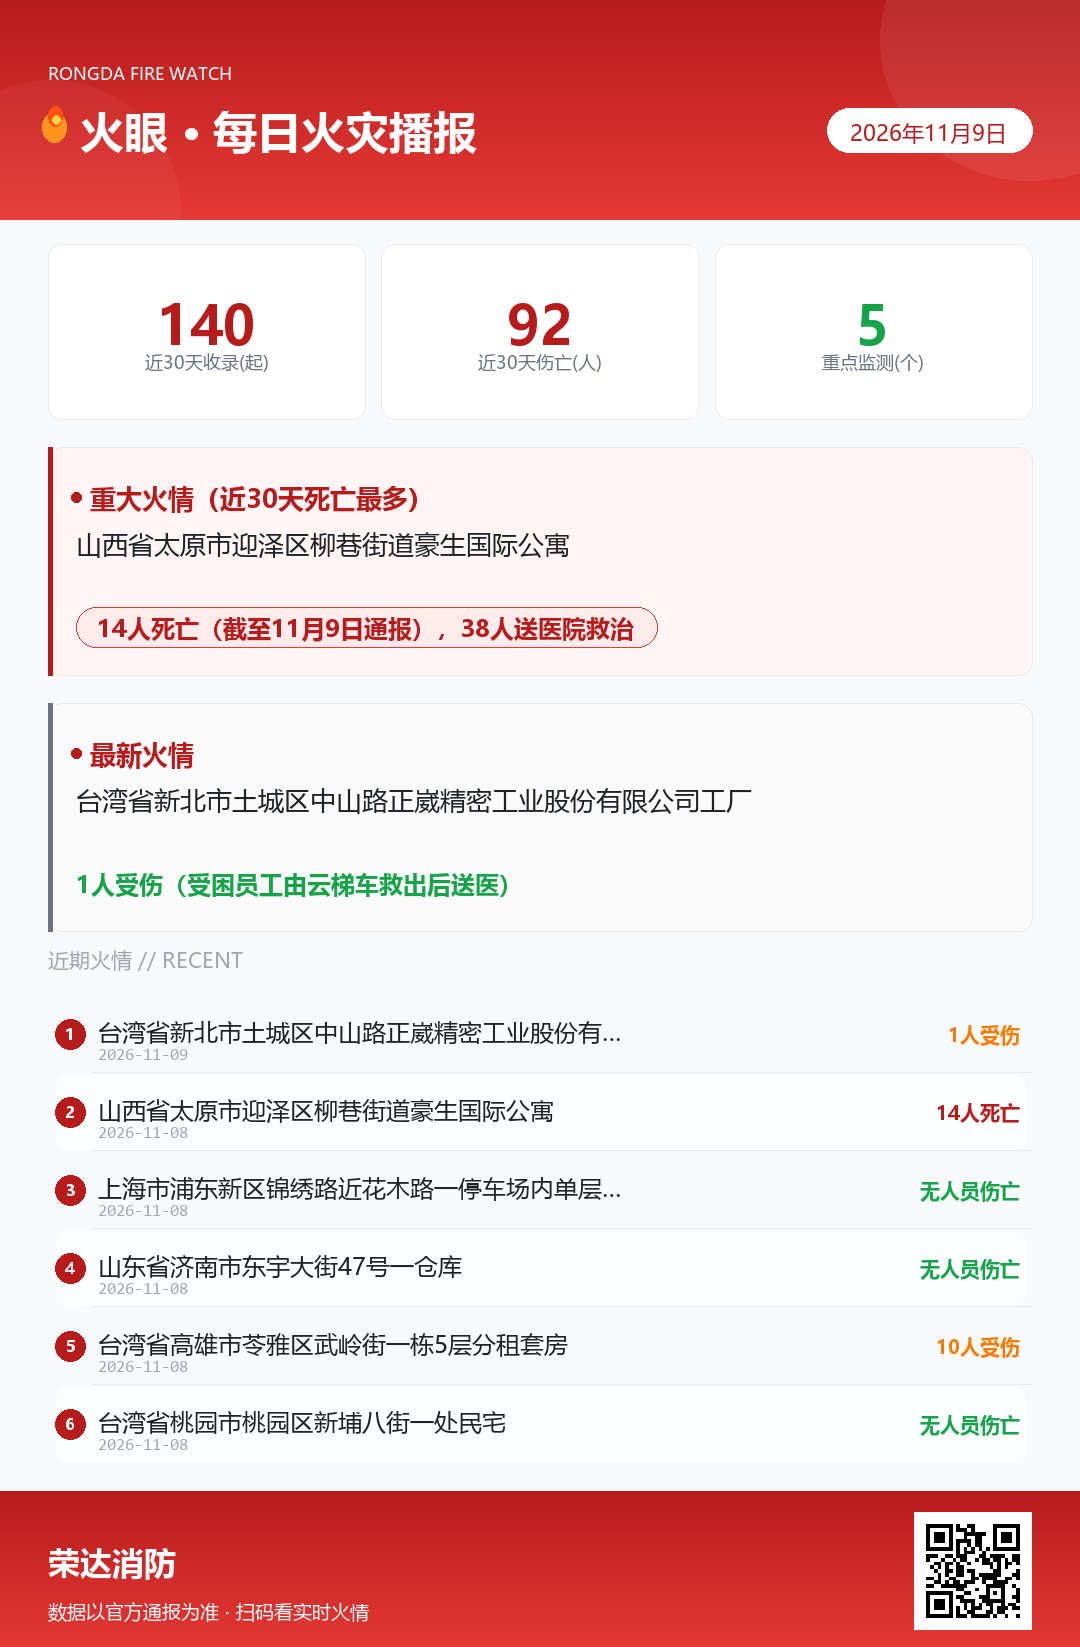
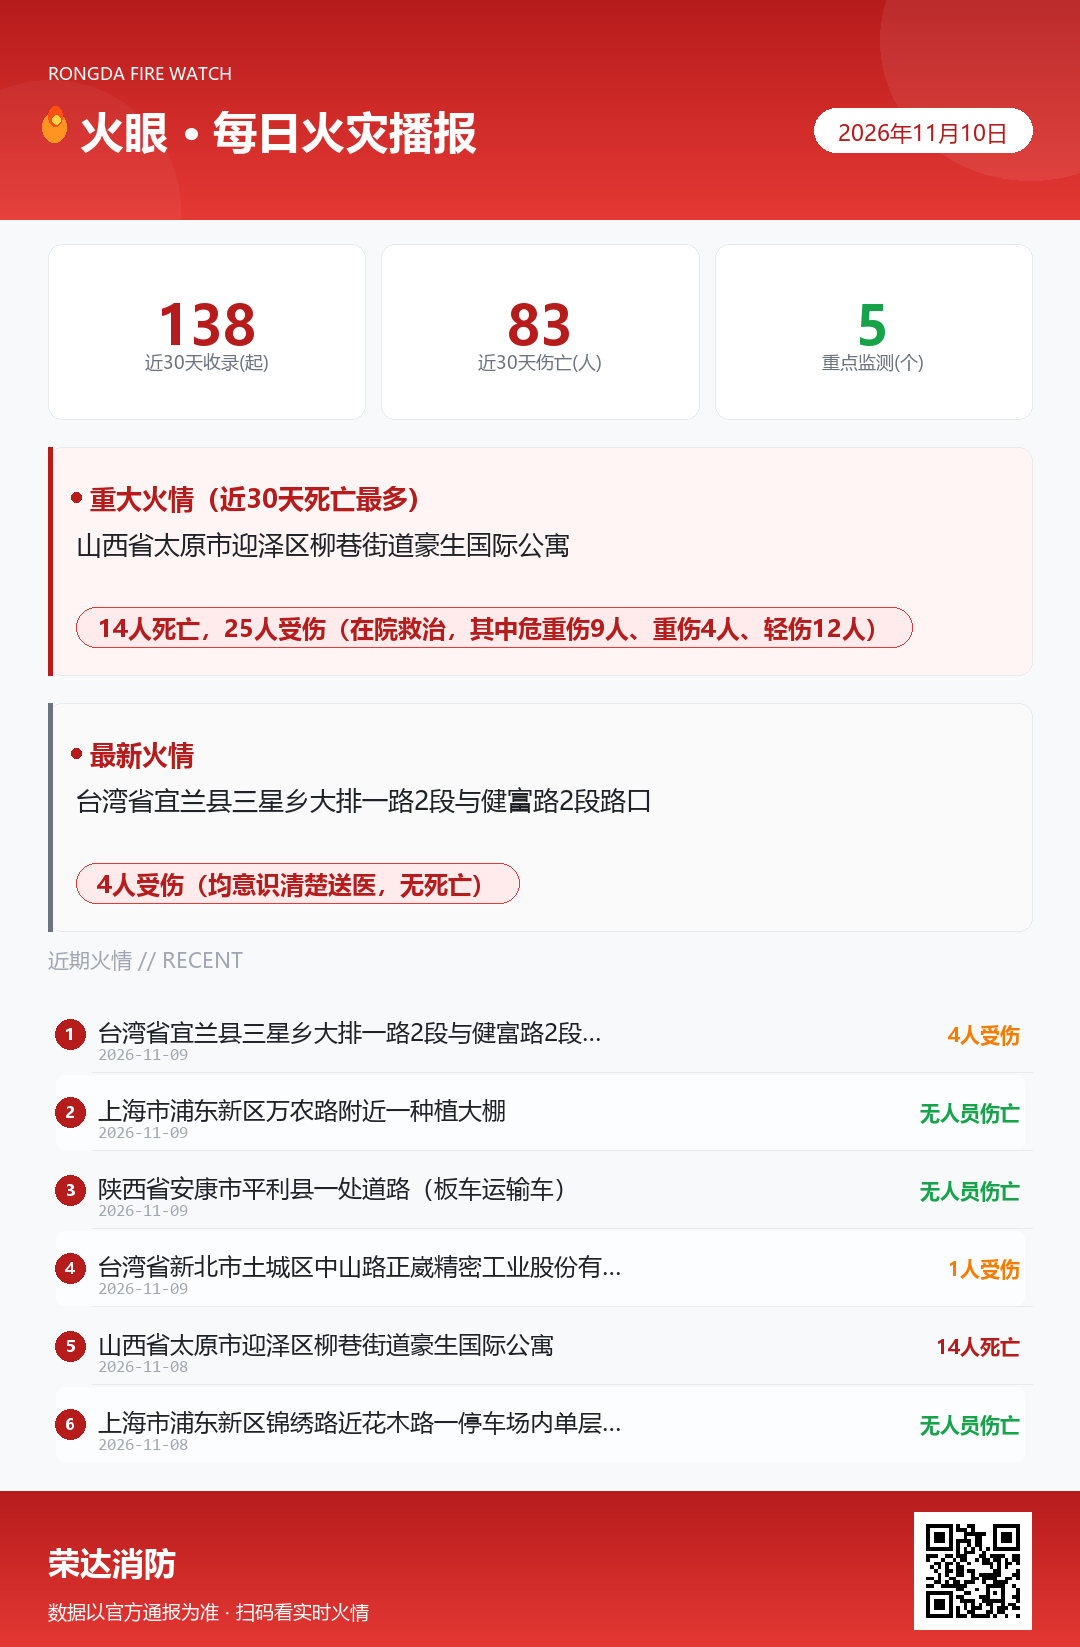
fire-daily-brief 2026-11-10 09:11 roll

diff --git a/index.html b/index.html
@@ -433,10 +433,9 @@
 <body data-page-node-id="ICXkWpuir7NPQq2WkGSUm2">
 
 <!-- ============ DATA（每日自动更新：由自动化脚本重写此对象） ============ -->
-<script id="brief-data" type="application/json">
-{
-  "date": "2026年11月9日",
-  "compileTime": "2026-11-09 11:45",
+<script id="brief-data" type="application/json">{
+  "date": "2026年11月10日",
+  "compileTime": "2026-11-10 09:10",
   "source": "AI 联网检索 · 各地消防救援机构官方通报及权威媒体转载",
   "range": "滚动更新 · 近 30 天",
   "stats": {
@@ -451,7 +450,7 @@
     },
     {
       "name": "上海市",
-      "status": "有官方通报（7·28/7·31 多起居民楼起火、8·4 闵行中春路单位建筑起火、8·7 虹口新市南路小区非机动车起火、8·10 浦东万安街路边车辆起火、8·17 G2京沪高速面包车起火、8·19 青浦盈浦街道居民顶楼起火、8·19 G1503绕城高速集卡追尾起火、8·28 浦东张江松涛路单位实验室起火、8·30 松江车墩镇松南城善德苑小区居民家中起火（无伤亡、9·1 凌晨浦东新区一社区居民楼6楼火情（2人送医）、9·1 杨浦新江湾城时代花园小区居民楼起火（无伤亡；9·1 松江区明中苑小区室外非机动车停车区域多辆非机动车烧毁（无伤亡、9·7 杨浦区殷行路近军工路小区垃圾房起火（无伤亡）、9·18 松江区泗泾镇方泗公路一辆新能源车追尾后起火燃烧（无人员伤亡）、9·28 浦东新区高青路一小区室外非机动车停车棚起火，多辆非机动车烧毁（无伤亡）、9·29 静安区天通庵路一工地内仓库起火（无伤亡）、9·29 崧泽高架平板牵引车起火（无伤亡）、10·9 宝山区上海大学南区学生公寓一女生宿舍起火（无人员伤亡）、10·9 青浦区城中西路一居民楼顶楼民宅起火（无人员伤亡报告））、10·12 杨浦区翔殷路791弄兰花新村小区一居民家中起火（2人送医，情况稳定、10·14 徐汇区天平街道一老式居民楼凌晨火情（充电宝故障热失控，无伤亡）、10·15 嘉定区沪宜公路近双丁路一处室外垃圾堆起火（燃烧垃圾渔网等杂物，无伤亡）、10·16 嘉定区曹安公路近联群路一区域起火（夜间露天区域起火，无伤亡）、10·17 杨浦区控江六村小区底楼一居民家中起火（无伤亡，一辆电动自行车烧毁）、10·17 S1迎宾高速近启航路出口匝道一轿车起火（无伤亡）、10·18 杨浦区殷行路430弄小区居民家中起火（无伤亡，原因调查中）、10·22 普陀区杏山路近梅岭南路一沿街面馆起火（无伤亡，起因调查中）、10·23 宝山区岭南路1288弄岭南雅苑一顶楼复式居民家起火（火势较大，无人员伤亡，原因调查中）、10·24 松江区新育路750弄雅鹿新苑二期小区一居民家起火（底楼住户，无人员伤亡，原因调查中、10·21 奉贤区一小区停车场居民擅自用转接头接新能源汽车充电桩给电动自行车充电引发火灾（充电桩与电动自行车烧损烧毁，无人员伤亡）、10·25 静安区平型关路2199弄小区非机动车停放区域起火（6辆电动自行车烧毁，无人员伤亡））、10·28 北横通道东向西转中环匝道口一面包车车头起火（晚高峰，临时封一根车道、后方拥堵约4公里，无伤亡）、10·28 G1503 绕城高速内圈近重固立交处一装载纸板小货车行驶中起火（车内2人及时下车无伤，18时许处置完毕，无伤亡）、10·31 嘉定区温宿路城中路桃园小区一底楼居民家起火（外立面2楼至顶楼熏黑、多户玻璃碎裂与空调外机烧毁，无人员伤亡，原因调查中）、11·01 闵行区金都路都会路路口一轿车撞绿化带侧翻后车头起火（车内人员及时撤出，无伤亡，原因调查中）、11·02 浦东新区定水路50弄西镇小区某号3楼一户居民家起火（窗玻璃烧碎坠地，3楼至顶楼外立面与空调外机熏黑，无人员伤亡，原因调查中）、11·02 静安区上海大学延长路校区一处实验室在抢险救援过程中发生爆炸（涉事学生轻微伤、无人死亡，原因调查中）、11·03 嘉定区海波路一公司临时搭建板房起火（燃烧物为板房内堆放杂物和垃圾，无人员伤亡，原因调查中）、11·06 虹口区四达路58弄小区一住宅起火（疑空调外机起火，明火很快被扑灭，无人员伤亡，原因正在调查中、11·08 浦东新区锦绣路近花木路一停车场内单层房屋起火（屋内有明火蹿出、烟雾随高湿空气弥散至周边道路，社区消防站先期铺设水带扑救，无人员伤亡，原因调查中）"
+      "status": "有官方通报（7·28/7·31 多起居民楼起火、8·4 闵行中春路单位建筑起火、8·7 虹口新市南路小区非机动车起火、8·10 浦东万安街路边车辆起火、8·17 G2京沪高速面包车起火、8·19 青浦盈浦街道居民顶楼起火、8·19 G1503绕城高速集卡追尾起火、8·28 浦东张江松涛路单位实验室起火、8·30 松江车墩镇松南城善德苑小区居民家中起火（无伤亡、9·1 凌晨浦东新区一社区居民楼6楼火情（2人送医）、9·1 杨浦新江湾城时代花园小区居民楼起火（无伤亡；9·1 松江区明中苑小区室外非机动车停车区域多辆非机动车烧毁（无伤亡、9·7 杨浦区殷行路近军工路小区垃圾房起火（无伤亡）、9·18 松江区泗泾镇方泗公路一辆新能源车追尾后起火燃烧（无人员伤亡）、9·28 浦东新区高青路一小区室外非机动车停车棚起火，多辆非机动车烧毁（无伤亡）、9·29 静安区天通庵路一工地内仓库起火（无伤亡）、9·29 崧泽高架平板牵引车起火（无伤亡）、10·9 宝山区上海大学南区学生公寓一女生宿舍起火（无人员伤亡）、10·9 青浦区城中西路一居民楼顶楼民宅起火（无人员伤亡报告））、10·12 杨浦区翔殷路791弄兰花新村小区一居民家中起火（2人送医，情况稳定、10·14 徐汇区天平街道一老式居民楼凌晨火情（充电宝故障热失控，无伤亡）、10·15 嘉定区沪宜公路近双丁路一处室外垃圾堆起火（燃烧垃圾渔网等杂物，无伤亡）、10·16 嘉定区曹安公路近联群路一区域起火（夜间露天区域起火，无伤亡）、10·17 杨浦区控江六村小区底楼一居民家中起火（无伤亡，一辆电动自行车烧毁）、10·17 S1迎宾高速近启航路出口匝道一轿车起火（无伤亡）、10·18 杨浦区殷行路430弄小区居民家中起火（无伤亡，原因调查中）、10·22 普陀区杏山路近梅岭南路一沿街面馆起火（无伤亡，起因调查中）、10·23 宝山区岭南路1288弄岭南雅苑一顶楼复式居民家起火（火势较大，无人员伤亡，原因调查中）、10·24 松江区新育路750弄雅鹿新苑二期小区一居民家起火（底楼住户，无人员伤亡，原因调查中、10·21 奉贤区一小区停车场居民擅自用转接头接新能源汽车充电桩给电动自行车充电引发火灾（充电桩与电动自行车烧损烧毁，无人员伤亡）、10·25 静安区平型关路2199弄小区非机动车停放区域起火（6辆电动自行车烧毁，无人员伤亡））、10·28 北横通道东向西转中环匝道口一面包车车头起火（晚高峰，临时封一根车道、后方拥堵约4公里，无伤亡）、10·28 G1503 绕城高速内圈近重固立交处一装载纸板小货车行驶中起火（车内2人及时下车无伤，18时许处置完毕，无伤亡）、10·31 嘉定区温宿路城中路桃园小区一底楼居民家起火（外立面2楼至顶楼熏黑、多户玻璃碎裂与空调外机烧毁，无人员伤亡，原因调查中）、11·01 闵行区金都路都会路路口一轿车撞绿化带侧翻后车头起火（车内人员及时撤出，无伤亡，原因调查中）、11·02 浦东新区定水路50弄西镇小区某号3楼一户居民家起火（窗玻璃烧碎坠地，3楼至顶楼外立面与空调外机熏黑，无人员伤亡，原因调查中）、11·02 静安区上海大学延长路校区一处实验室在抢险救援过程中发生爆炸（涉事学生轻微伤、无人死亡，原因调查中）、11·03 嘉定区海波路一公司临时搭建板房起火（燃烧物为板房内堆放杂物和垃圾，无人员伤亡，原因调查中）、11·06 虹口区四达路58弄小区一住宅起火（疑空调外机起火，明火很快被扑灭，无人员伤亡，原因正在调查中、11·08 浦东新区锦绣路近花木路一停车场内单层房屋起火（屋内有明火蹿出、烟雾随高湿空气弥散至周边道路，社区消防站先期铺设水带扑救，无人员伤亡，原因调查中）、11·09 浦东新区万农路附近一种植大棚起火（上午11时许，多辆消防车到场铺设水带出水扑救、明火很快被扑灭，无人员伤亡，原因调查中）"
     },
     {
       "name": "广州市",
@@ -464,12 +463,12 @@
   ],
   "case": {
     "date": "2026-11-09",
-    "location": "台湾省新北市土城区中山路正崴精密工业股份有限公司工厂",
-    "category": "工厂/车间",
-    "summary": "11月9日上午8时许，台湾省新北市土城区中山路正崴精密工业股份有限公司工厂发生火警。现场为7层建筑，火烟由5楼冒出，警消初步掌握厂内1人受困、在安全区域待援，9时26分由云梯车救出受困员工送医。新北市政府消防局共计调派47车、102人前往灌救，10时许控制火势。因现场存放锂电池燃烧、浓烟直窜，增加灌救困难，警消一度评估有延烧之虞并呼吁邻近区域民众关闭门窗、外出戴口罩，起火原因待火势熄灭后调查厘清。",
-    "casualty": "1人受伤（受困员工由云梯车救出后送医）",
-    "cause": "起火原因待火势熄灭后调查厘清",
-    "src": "中央社（2026-11-09，据新北市政府消防局）"
+    "location": "台湾省宜兰县三星乡大排一路2段与健富路2段路口",
+    "category": "交通枢纽",
+    "summary": "11月9日中午12时许，一辆载运瓦斯桶的小货车行经宜兰县三星乡大排一路2段与健富路2段路口时，与一辆自小客车发生碰撞后起火，货车车头火势猛烈、黑烟直窜。宜兰县政府消防局12时48分获报派员到场，布设水线射水抢救，13时45分扑灭。事故造成小货车驾驶脸部擦伤送罗东圣母医院、自小客车驾驶及2名乘客头部等处擦伤送罗东博爱医院，共4人受伤、均意识清楚；两名驾驶经检测均无酒精反应，肇事原因待警方进一步调查厘清。",
+    "casualty": "4人受伤（均意识清楚送医，无死亡）",
+    "cause": "小货车与自小客车路口碰撞后起火，肇事原因待警方调查厘清",
+    "src": "中央社（2026-11-09，据宜兰县政府消防局及警方初步调查）"
   },
   "tips": [
     "住宅类火情近30天49起居首、占超三成，电气与堆物是主因：上海11·06空调外机起火熏黑整栋、香港11·07香薰点燃杂物致1死、多起老旧插头“九年未拔”与排插长期通电。立冬后取暖用电负荷上升，老旧插排和长通插头赶紧换，空调外机周边清走杂物与积尘，人离即断。",
@@ -490,6 +489,33 @@
   "history": [
     {
       "date": "2026-11-09",
+      "location": "台湾省宜兰县三星乡大排一路2段与健富路2段路口",
+      "category": "交通枢纽",
+      "summary": "11月9日中午12时许，一辆载运瓦斯桶的小货车行经宜兰县三星乡大排一路2段与健富路2段路口时，与一辆自小客车发生碰撞后起火，货车车头火势猛烈、黑烟直窜。宜兰县政府消防局12时48分获报派员到场，布设水线射水抢救，13时45分扑灭。事故造成小货车驾驶脸部擦伤送罗东圣母医院、自小客车驾驶及2名乘客头部等处擦伤送罗东博爱医院，共4人受伤、均意识清楚；两名驾驶经检测均无酒精反应，肇事原因待警方进一步调查厘清。",
+      "casualty": "4人受伤（均意识清楚送医，无死亡）",
+      "cause": "小货车与自小客车路口碰撞后起火，肇事原因待警方调查厘清",
+      "src": "中央社（2026-11-09，据宜兰县政府消防局及警方初步调查）"
+    },
+    {
+      "date": "2026-11-09",
+      "location": "上海市浦东新区万农路附近一种植大棚",
+      "category": "其他",
+      "summary": "11月9日上午11时许，上海市浦东新区万农路附近一处种植大棚发生火灾，起火大棚处蹿出明火、火势蔓延并持续冒出黑烟，烟雾向周边区域飘散。现场人员拨打报警电话后，消防部门派出多辆消防车到场，队员第一时间铺设水带出水灭火，明火很快被扑灭。火灾未造成人员伤亡，具体起火原因正在进一步调查中。",
+      "casualty": "无人员伤亡",
+      "cause": "具体起火原因正在进一步调查中",
+      "src": "新民晚报（2026-11-09，记者徐驰）／上观新闻"
+    },
+    {
+      "date": "2026-11-09",
+      "location": "陕西省安康市平利县一处道路（板车运输车）",
+      "category": "交通枢纽",
+      "summary": "11月9日，陕西省安康市平利县一辆板车运输车行驶途中突发火情，火势蔓延至所载多台车辆。当地消防救援力量迅速到场扑救，当日13时许道路恢复交通。本次事故没有人员伤亡，起火原因正在调查中。",
+      "casualty": "无人员伤亡",
+      "cause": "起火原因正在调查中",
+      "src": "新京报·我们视频（2026-11-09）／南昌晚报转载"
+    },
+    {
+      "date": "2026-11-09",
       "location": "台湾省新北市土城区中山路正崴精密工业股份有限公司工厂",
       "category": "工厂/车间",
       "summary": "11月9日上午8时许，台湾省新北市土城区中山路正崴精密工业股份有限公司工厂发生火警。现场为7层建筑，火烟由5楼冒出，警消初步掌握厂内1人受困、在安全区域待援，9时26分由云梯车救出受困员工送医。新北市政府消防局共计调派47车、102人前往灌救，10时许控制火势。因现场存放锂电池燃烧、浓烟直窜，增加灌救困难，警消一度评估有延烧之虞并呼吁邻近区域民众关闭门窗、外出戴口罩，起火原因待火势熄灭后调查厘清。",
@@ -501,10 +527,10 @@
       "date": "2026-11-08",
       "location": "山西省太原市迎泽区柳巷街道豪生国际公寓",
       "category": "其他",
-      "summary": "11月8日16时59分，山西省太原市迎泽区柳巷街道豪生国际公寓发生火灾。起火建筑2007年建成，地处柳巷商圈，低楼层为多家培训机构、较高楼层多为酒店客房，属多业态混合高层建筑，火势沿烟道向上蔓延，起火点位于楼体靠近顶部位置。19时明火扑灭，20时30分搜救工作结束；迎泽区通报送医院救治38人，其中死亡5人。11月9日记者从山西省相关部门获悉，火灾死亡人数已升至14人。救援期间消防救援人员架设云梯从窗口救出多名被困人员，有被困者翻窗至8层露天平台避险约40分钟后获救。伤员救治与善后处置正在进行，起火原因正在调查。",
-      "casualty": "14人死亡（截至11月9日通报），38人送医院救治",
-      "cause": "起火原因正在调查中",
-      "src": "新华社（2026-11-09）／央视新闻、迎泽区「迎泽发布」情况通报（2026-11-08）"
+      "summary": "11月8日16时59分，山西省太原市迎泽区柳巷街道豪生国际公寓发生火灾。起火建筑2007年建成，地处柳巷商圈，低楼层为多家培训机构、较高楼层多为酒店客房，属多业态混合高层建筑，火势沿烟道向上蔓延，起火点位于楼体靠近顶部位置。19时明火扑灭，20时30分搜救工作结束；11月9日下午太原市政府召开新闻发布会通报：火灾已造成14人遇难，25人在院全力救治（危重伤9人、重伤4人、轻伤12人），共疏散营救被困群众60人。救援期间消防救援人员架设云梯从窗口救出多名被困人员，有被困者翻窗至8层露天平台避险约40分钟后获救。伤员救治与善后处置正在进行，起火原因正在调查。",
+      "casualty": "14人死亡，25人受伤（在院救治，其中危重伤9人、重伤4人、轻伤12人）",
+      "cause": "起火原因正在调查中，产权单位管理人员、物业公司负责人已被采取控制措施",
+      "src": "新华社（2026-11-09）／央视新闻、太原市政府新闻发布会通报、迎泽区「迎泽发布」情况通报（2026-11-08、11-09）"
     },
     {
       "date": "2026-11-08",
@@ -3875,8 +3901,7 @@
       "src": "葫芦岛市消防救援局警情通报（经媒体报道）"
     }
   ]
-}
-</script>
+}</script>
 
 <!-- nav -->
 <nav class="nav" data-page-node-id="36xZqpjYtKqVRIAEorBoJT">
